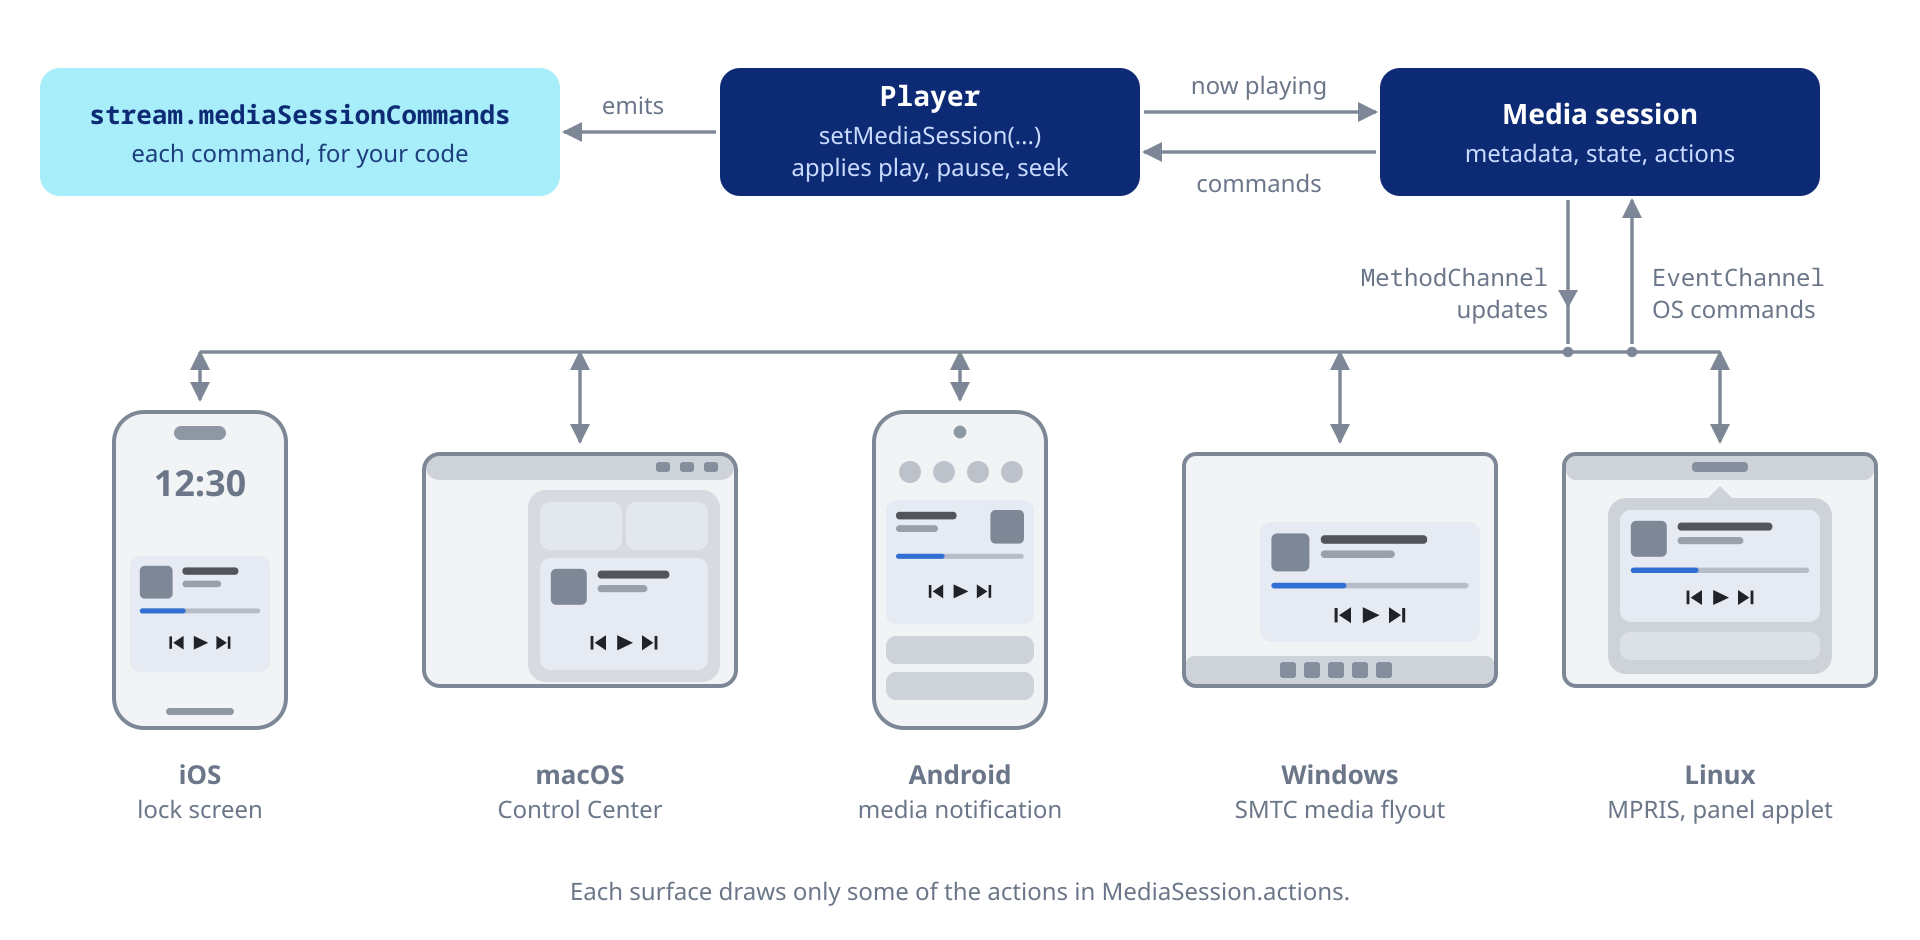
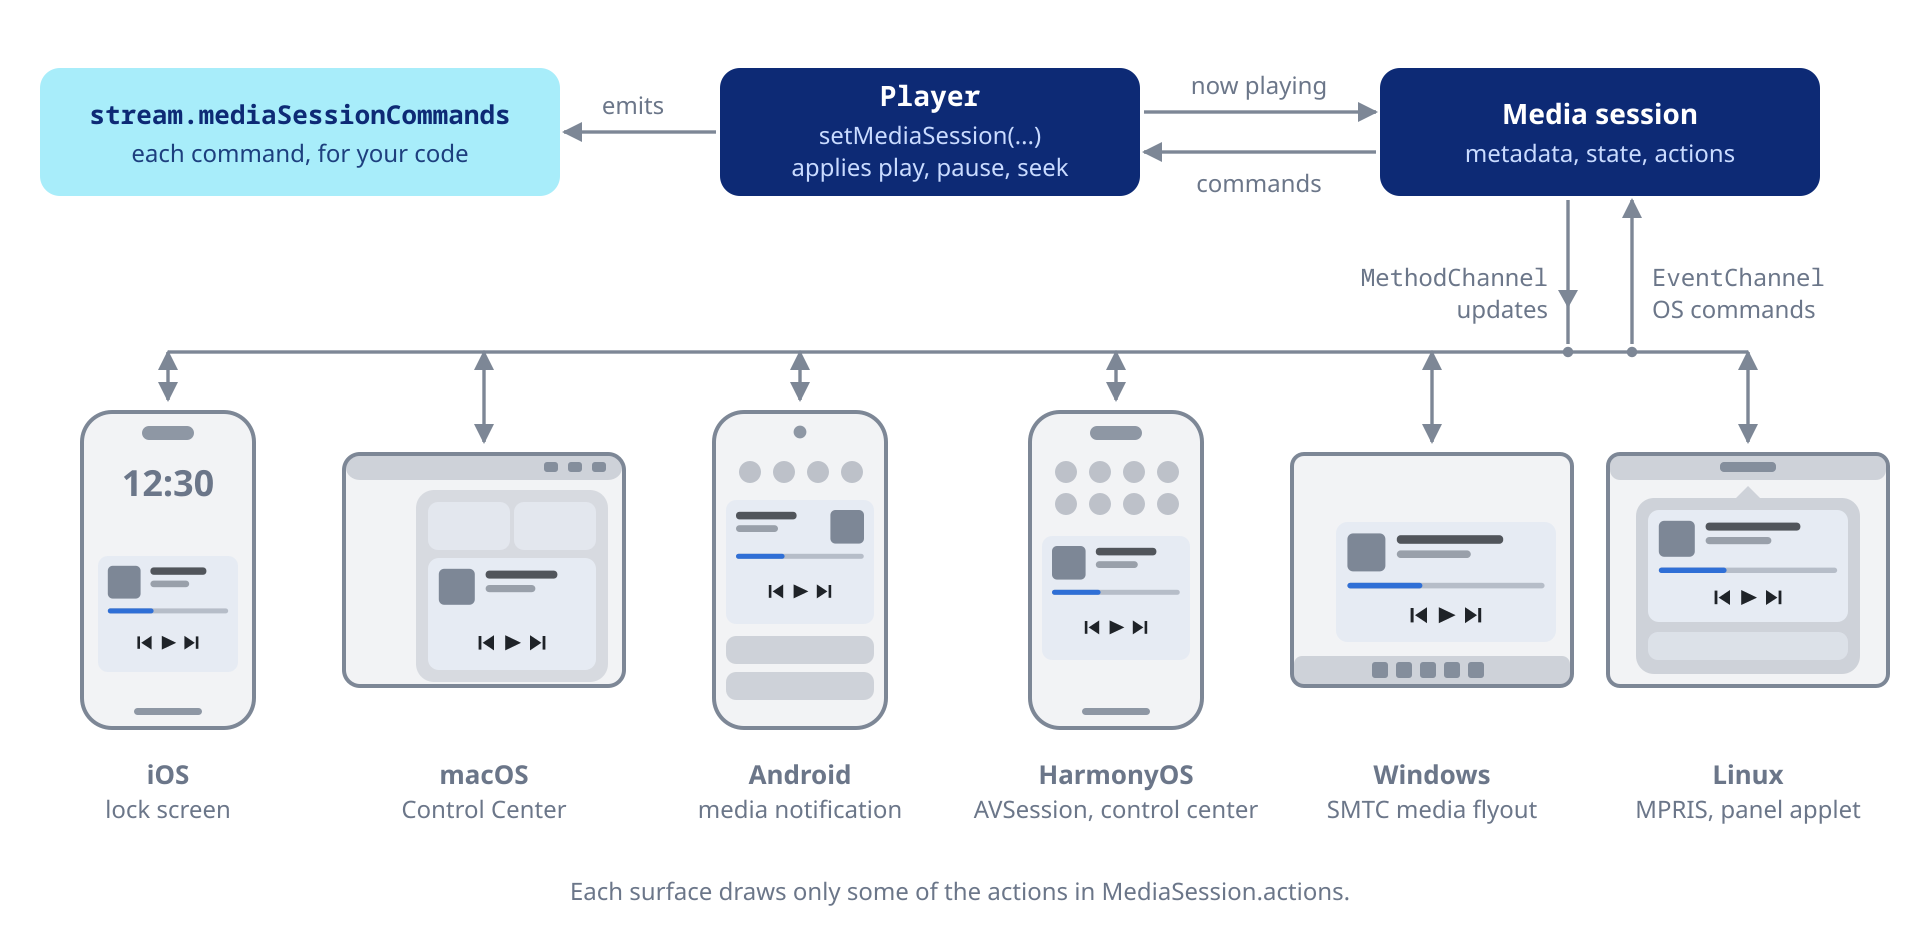
docs(diagrams): HarmonyOS in the media session flow, its control center fed by the AVSession

diff --git a/tool/diagrams/system.py b/tool/diagrams/system.py
@@ -197,7 +197,7 @@ def _android(d, cx, y):
 
 def _macos(d, cx, y):
     c = d.c
-    w, h = 156, 116
+    w, h = 140, 116
     x = cx - w / 2
     y0 = y + 21
     d.rect(x, y0, w, h, c['line'], r=8, op=0.10, stroke=c['line'], sw=2)
@@ -213,7 +213,7 @@ def _macos(d, cx, y):
 
 def _windows(d, cx, y):
     c = d.c
-    w, h = 156, 116
+    w, h = 140, 116
     x = cx - w / 2
     y0 = y + 21
     d.rect(x, y0, w, h, c['line'], r=6, op=0.10, stroke=c['line'], sw=2)
@@ -226,7 +226,7 @@ def _windows(d, cx, y):
 
 def _linux(d, cx, y):
     c = d.c
-    w, h = 156, 116
+    w, h = 140, 116
     x = cx - w / 2
     y0 = y + 21
     d.rect(x, y0, w, h, c['line'], r=6, op=0.10, stroke=c['line'], sw=2)
@@ -236,6 +236,18 @@ def _linux(d, cx, y):
     d.rect(cx - 56, y0 + 22, 112, 88, c['line'], r=9, op=0.3)
     d.now_playing(cx - 50, y0 + 28, 100, 56, prog=True, s=0.9)
     d.rect(cx - 50, y0 + 89, 100, 14, c['neutral'], r=5, op=0.6)
+
+
+def _ohos(d, cx, y):
+    c = d.c
+    x = _phone(d, cx, y)
+    # the control center of the System UI: two rows of toggles, then the
+    # media controls the AVSession feeds
+    for row in range(2):
+        for i in range(4):
+            d.add(f'<circle cx="{x + 18 + i * 17}" cy="{y + 30 + row * 16}" r="5.5" fill="{c["line"]}" fill-opacity="0.45"/>')
+    d.now_playing(x + 6, y + 62, 74, 62, prog=True, s=0.84)
+    d.rect(cx - 17, y + 148, 34, 3.5, c['line'], r=1.75, op=0.85)
 
 
 def media(t):
@@ -259,16 +271,16 @@ def media(t):
     d.text(MS - 26, yb - 17, 'updates', anchor='end')
     d.text(MS + 26, yb - 33, 'EventChannel', anchor='start', mono=True, color='label')
     d.text(MS + 26, yb - 17, 'OS commands', anchor='start')
-    xs = [100 + i * 190 for i in range(5)]
+    xs = [84 + i * 158 for i in range(6)]
     d.add(f'<path d="M{xs[0]},{yb} H{xs[-1]}" fill="none" stroke="{c["line"]}" stroke-width="1.7"/>')
     for x in (MS - 16, MS + 16):
         d.add(f'<circle cx="{x}" cy="{yb}" r="2.6" fill="{c["line"]}"/>')
     gy = 206
-    for x, top in zip(xs, (0, 21, 0, 21, 21)):
+    for x, top in zip(xs, (0, 21, 0, 0, 21, 21)):
         d.arrow(f'M{x},{yb} L{x},{gy + top - 6}', kind='sec', both=True)
     surfaces = [(_ios, 'iOS', 'lock screen'), (_macos, 'macOS', 'Control Center'),
-                (_android, 'Android', 'media notification'), (_windows, 'Windows', 'SMTC media flyout'),
-                (_linux, 'Linux', 'MPRIS, panel applet')]
+                (_android, 'Android', 'media notification'), (_ohos, 'HarmonyOS', 'AVSession, control center'),
+                (_windows, 'Windows', 'SMTC media flyout'), (_linux, 'Linux', 'MPRIS, panel applet')]
     for x, (fn, os_, sub) in zip(xs, surfaces):
         fn(d, x, gy)
         d.heading(x, gy + 186, os_, sub=sub, anchor='middle')
